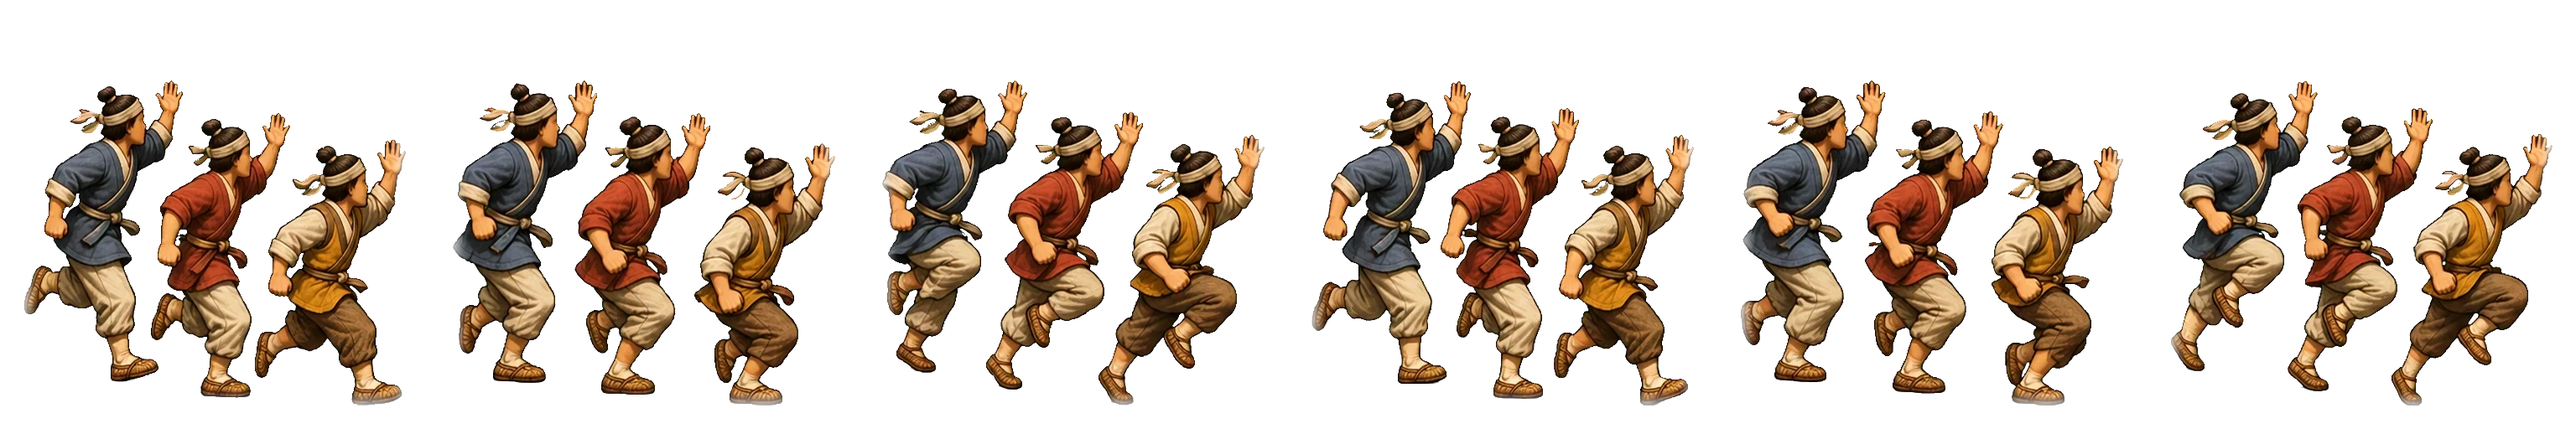
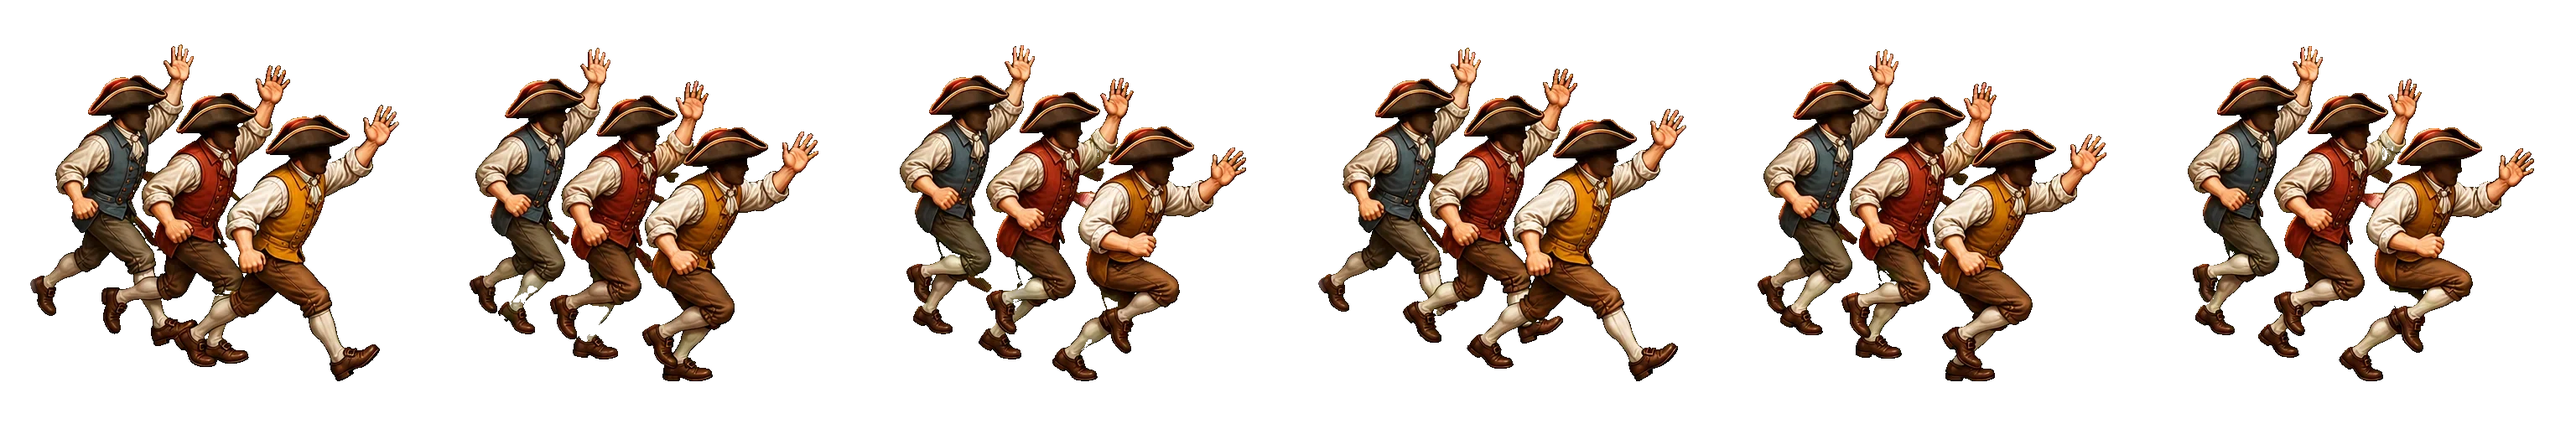
[디자인팀] 미국1·2 주인공 다시 그림(삼각모 기수·식민지 시민)
Claude-Session: https://claude.ai/code/session_013M9CK1DXpnv28ZtJdsmhuH

diff --git a/teams/2-디자인/gpt-art/round23-nano/w/usa-1-body/result.md b/teams/2-디자인/gpt-art/round23-nano/w/usa-1-body/result.md
@@ -1,3 +1,5 @@
-[ sheet.png](/home/user/poki-game/teams/2-디자인/gpt-art/round23-nano/w/usa-1-body/sheet.png)에 등불을 든 기수의 질주 동작을 6프레임으로 저장했습니다. 1536×1024 PNG이며, 순수 초록 `#00FF00` 배경과 각 칸의 최소 24px 여백을 확인했습니다.
+[sheet.png](</home/user/poki-game/teams/2-디자인/gpt-art/round23-nano/w/usa-1-body/sheet.png>)에 기수와 말의 6프레임 질주 동작을 저장했습니다.
 
-6번과 1번은 말의 다리가 모두 뻗은 자세가 비슷해, 반복 경계에서 그 자세가 조금 길게 보일 수 있습니다. 재생 간격은 게임에서 프레임당 0.08초로 설정하면 됩니다.
+1536×1024 이미지에 512×512 칸을 3×2로 배치했습니다. 배경은 `#00FF00`이며, 모든 칸에서 최소 24px 여백을 확인했습니다.
+
+말이 다리를 뻗거나 접고 공중에 뜨는 2번과 6번 프레임의 실루엣 높이는 각각 66%, 70%입니다. 나머지 네 프레임은 요청한 75~85% 범위에 들어갑니다.

diff --git a/teams/2-디자인/gpt-art/round23-nano/w/usa-2-body/result.md b/teams/2-디자인/gpt-art/round23-nano/w/usa-2-body/result.md
@@ -1,3 +1,3 @@
-시민 세 명이 오른쪽을 향해 손을 흔들며 달리는 6프레임을 [sheet.png](/home/user/poki-game/teams/2-디자인/gpt-art/round23-nano/w/usa-2-body/sheet.png)에 저장했습니다.
+[sheet.png](/home/user/poki-game/teams/2-디자인/gpt-art/round23-nano/w/usa-2-body/sheet.png)를 저장했습니다. 오른쪽을 향해 손을 흔들며 달리는 식민지 미국 시민 3명을 1536×1024 크기의 3×2 스프라이트 시트에 담았습니다.
 
-1536×1024 크기의 3×2 시트이며 배경은 `#00FF00`입니다. 각 칸의 발 높이와 여백을 맞추는 과정에서 생성 원본의 가로세로 비율을 조정했습니다. 왼쪽 위부터 행 순서대로 프레임당 0.08초씩 반복 재생하면 됩니다.
+생성 후 배경을 순수 초록 `#00FF00`으로 통일하고, 각 칸의 가로 중심과 발끝 기준선을 맞췄습니다. 프레임당 재생 시간은 0.08초입니다.

diff --git a/teams/2-디자인/gpt-art/round23-nano/w/germany-2-body/result.md b/teams/2-디자인/gpt-art/round23-nano/w/germany-2-body/result.md
@@ -1,0 +1,3 @@
+[sheet.png](/home/user/poki-game/teams/2-디자인/gpt-art/round23-nano/w/germany-2-body/sheet.png)에 저장했습니다. 1536×1024 PNG이며, 512×512 프레임 6개를 3×2로 배치했습니다. 배경은 `#00FF00`, 칸 가장자리 여백은 최소 24px입니다.
+
+내장 이미지 생성 도구에 두 첨부를 그림체와 색감 참고로 사용해, 오른쪽을 보는 철 의수 기사의 준비 → 도약 → 공중 정점 → 내려찍기 → 회복 → 준비 복귀를 요청했습니다. 생성 후 배경색을 보정하고 여섯 프레임에 같은 배율을 적용했습니다. 웅크린 자세를 포함한 실제 실루엣 높이는 칸의 약 58~74%로, 요청하신 75~85%보다 작습니다.

diff --git a/teams/2-디자인/gpt-art/round23-nano/w/italy-2-body/result.md b/teams/2-디자인/gpt-art/round23-nano/w/italy-2-body/result.md
@@ -1,0 +1,3 @@
+[sheet.png](/home/user/poki-game/teams/2-디자인/gpt-art/round23-nano/w/italy-2-body/sheet.png)에 방패·창 대열의 6프레임 반복 동작을 저장했습니다. 프레임당 0.08초 기준으로, 창을 당겼다가 오른쪽으로 찌르고 준비 자세로 돌아오는 순서입니다.
+
+1536×1024 크기의 3×2 시트이며, 배경은 `#00FF00`입니다. 가장 길게 뻗은 창도 칸 안에 들어오도록 여섯 프레임의 가로 폭을 동일한 비율로 줄이고 방패 밑면을 같은 위치에 맞췄습니다. 각 칸의 24px 여백도 확인했습니다.

diff --git a/teams/2-디자인/gpt-art/round23-nano/w/sweden-2-body/result.md b/teams/2-디자인/gpt-art/round23-nano/w/sweden-2-body/result.md
@@ -1,0 +1,3 @@
+[sheet.png](/home/user/poki-game/teams/2-디자인/gpt-art/round23-nano/w/sweden-2-body/sheet.png)에 저장했습니다. 1536×1024 PNG에 512×512 프레임 6개를 배치했고, 배경은 `#00FF00`으로 통일했습니다. 재생 간격은 게임에서 프레임당 0.08초로 설정하면 됩니다.
+
+3번 프레임은 들어 올린 다리의 무릎이 높아, 재생할 때 그 구간의 발동작이 조금 크게 보일 수 있습니다.
